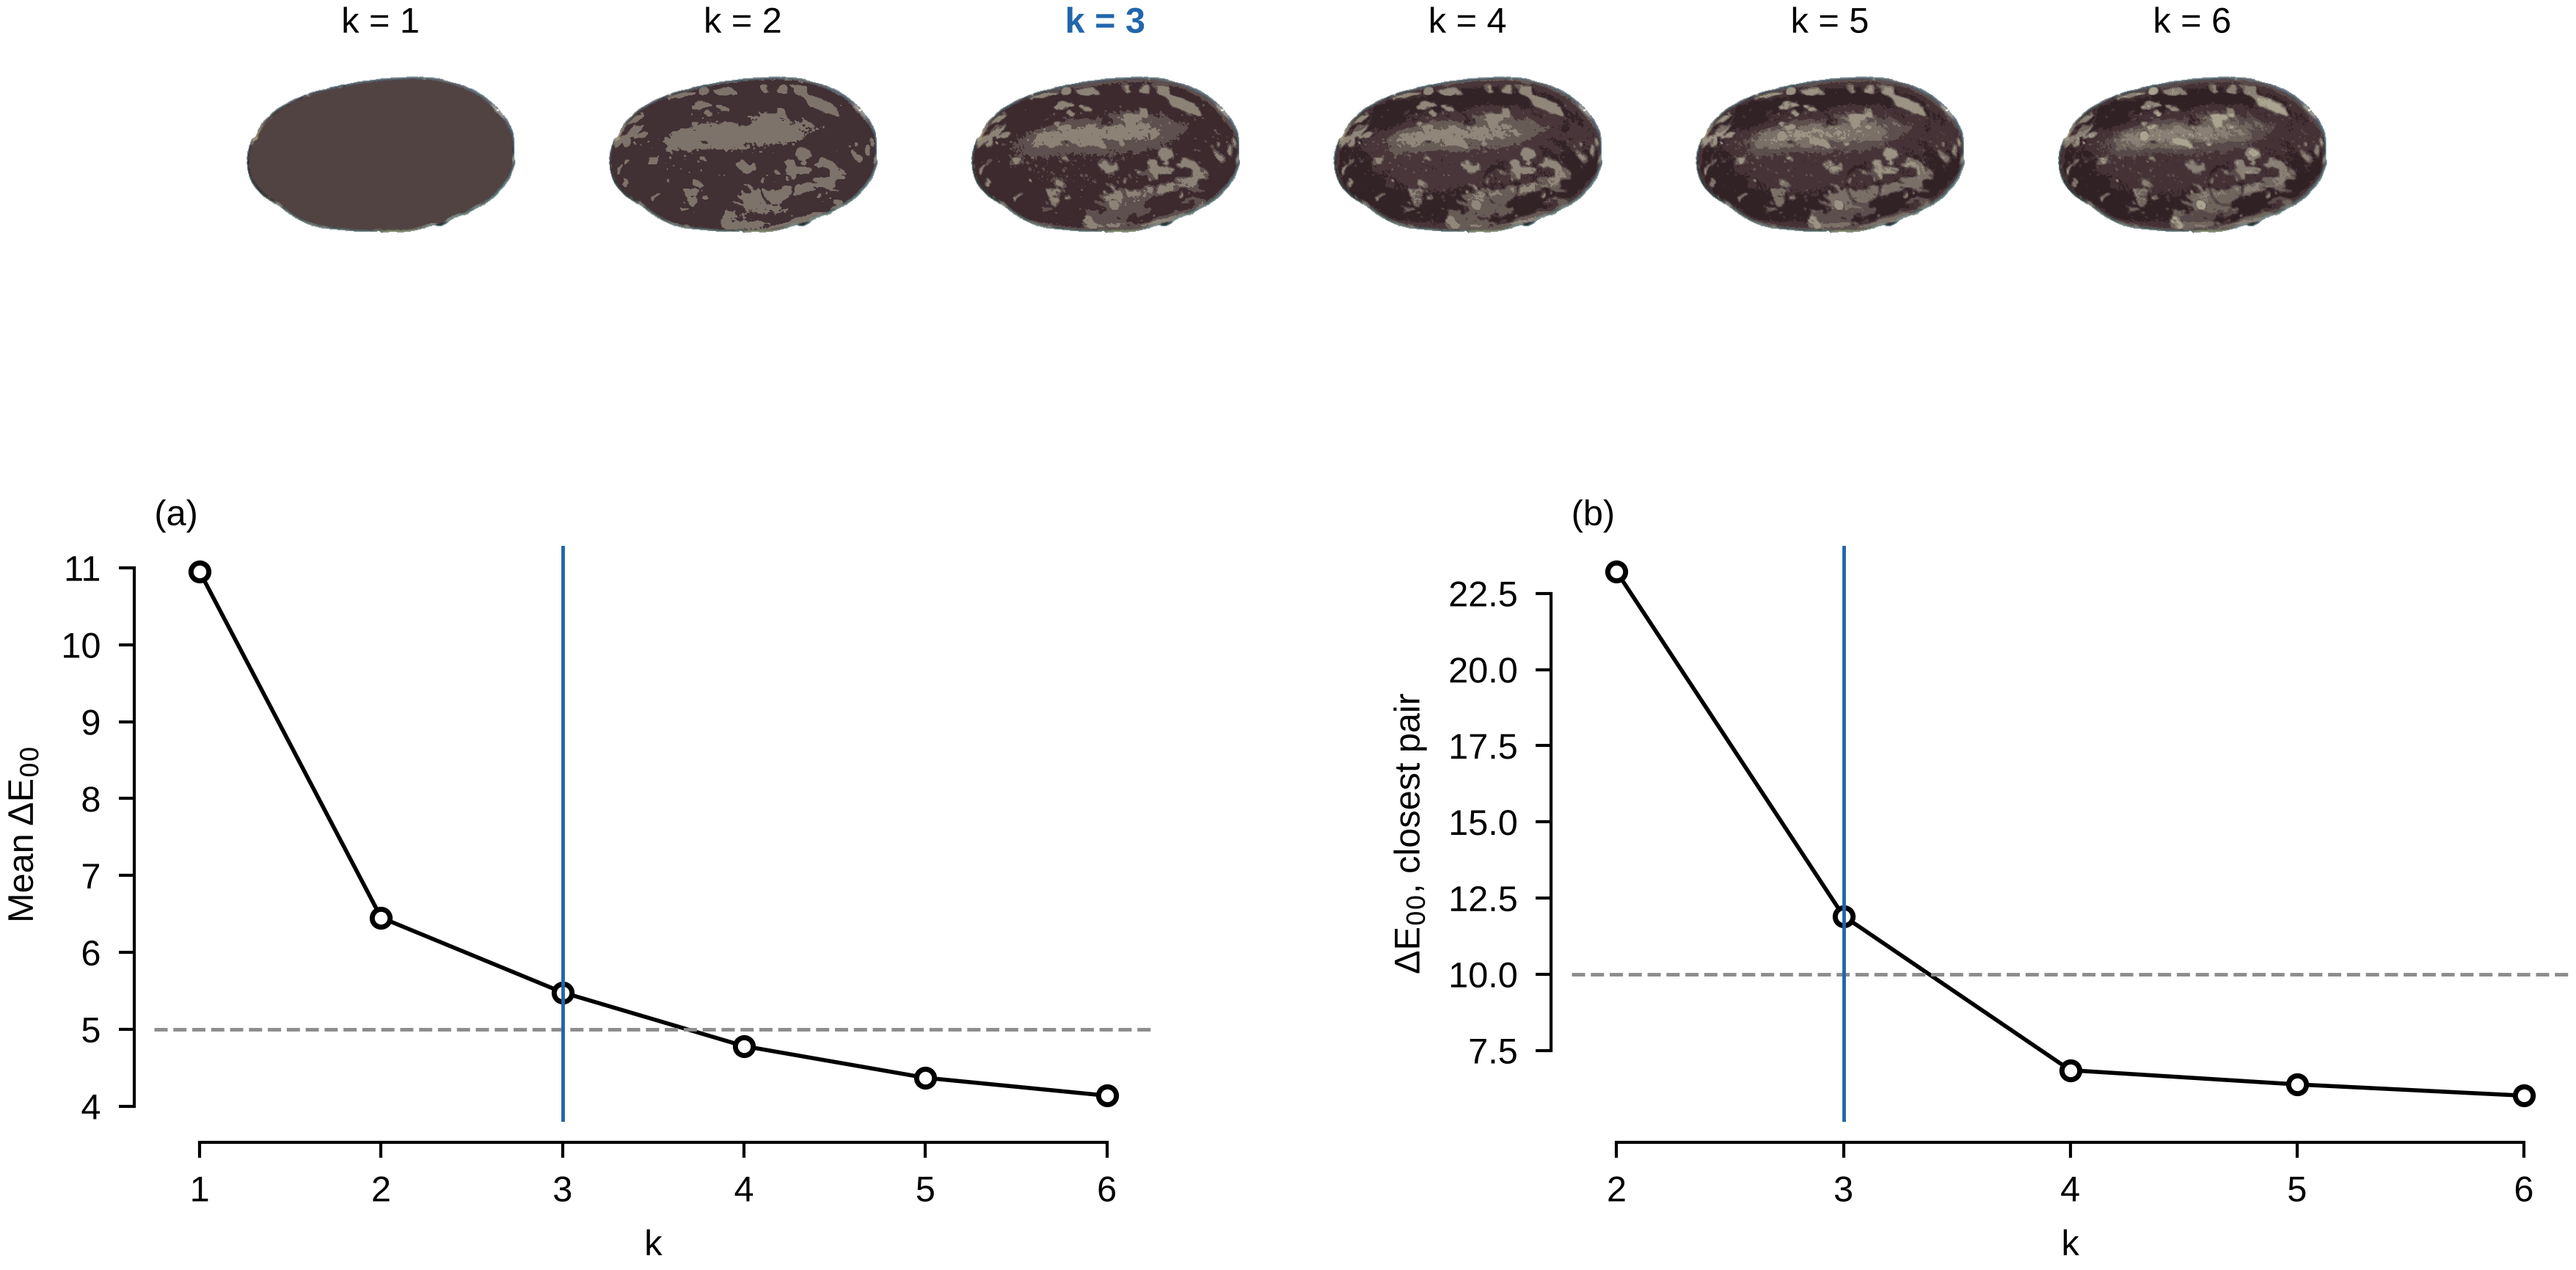
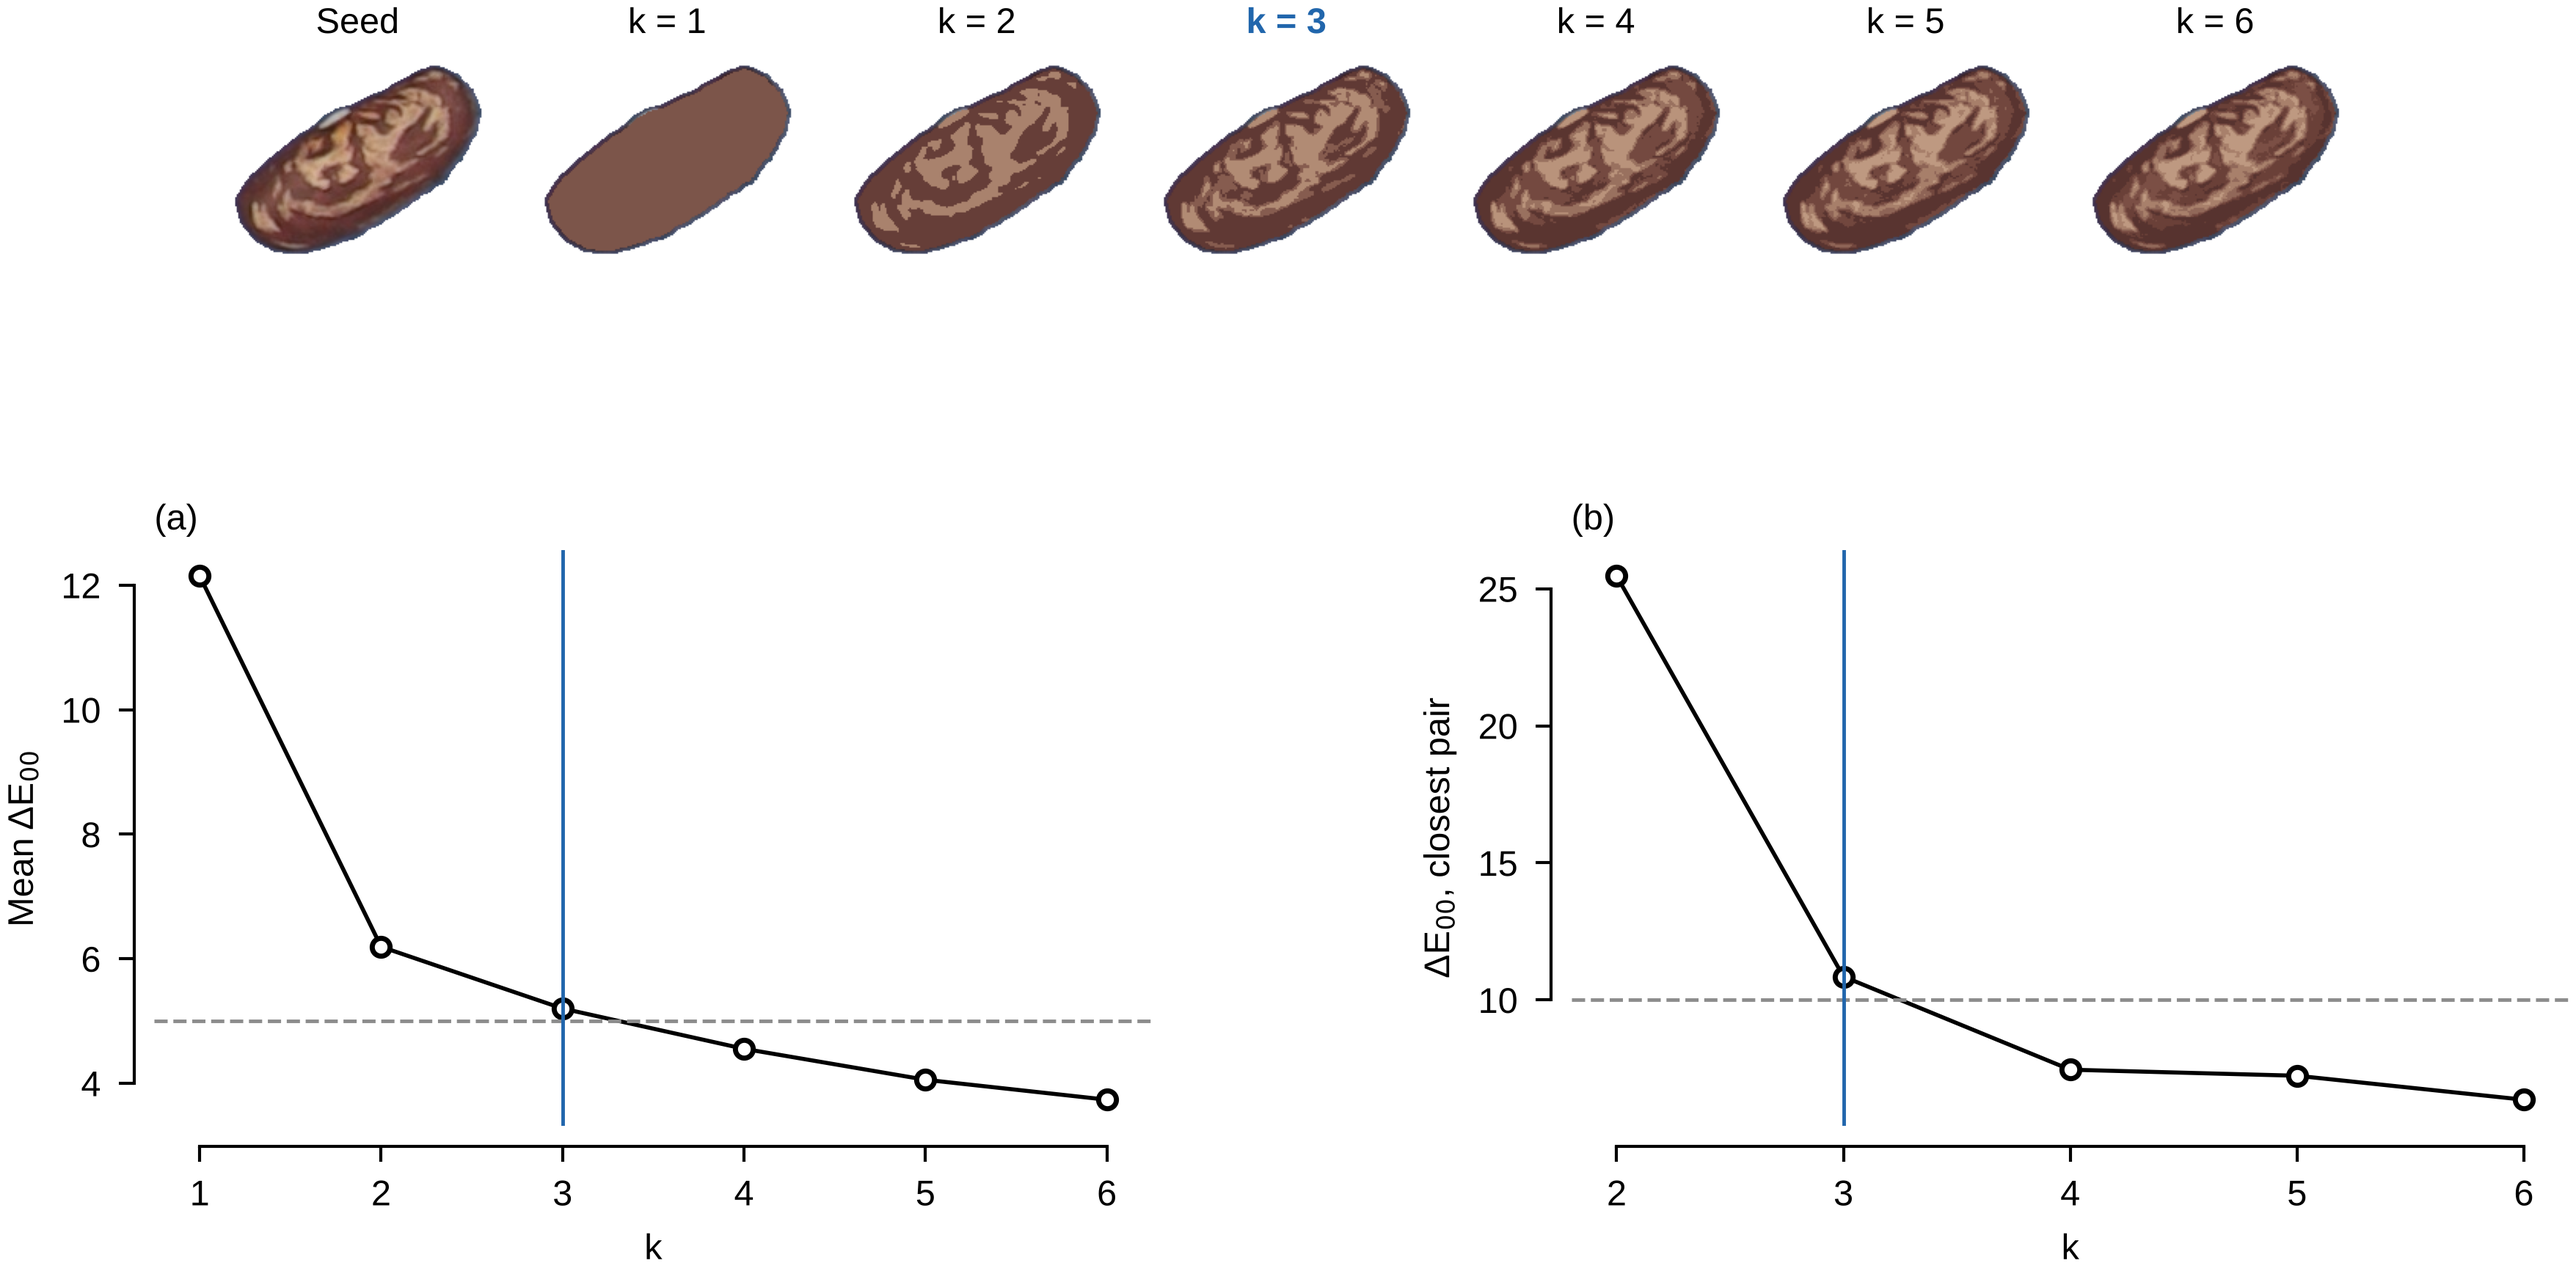
Color automático sin la regla del 1 %; Figura 10 con semilla roja moteada; arquitectura con modelos ONNX

diff --git a/docs/make_figures.py b/docs/make_figures.py
@@ -47,6 +47,10 @@ TRAY_SEG = {"step": "otsu", "params": {"color_space": "LAB", "channel": 2}}
 DISH_PHOTO = DATA / "Cgiar_Bean_Pest_Seeds" / "552.jpg"
 DISH_SEG = {"step": "threshold", "params": {"color_space": "LAB", "channel": 0, "min_val": 0, "max_val": 160}}
 PEST = DATA / "Cgiar_Bean_Pest_Seeds"
+COLOR_K_PHOTO = DATA / "Cgiar_Bean_Sequia_Seeds" / "In_row=23377.jpg"   # red mottled seeds
+COLOR_K_TRAY = (0.03, 0.97, 0.12, 0.86)                                  # tray: y0, y1, x0, x1
+COLOR_K_CARD = [[0.62, 0.0], [0.84, 0.25]]                               # color card, excluded
+COLOR_K_SEED = 42                                                        # object shown
 SEED_PHOTOS = ("051", "052", "184", "185", "552", "553")       # semillas en la caja de Petri
 INSECT_PHOTOS = ("053", "186", "554")                          # insectos y residuos sobre papel
 CLASS_NAMES_EN = {"Agujero": "Hole", "AgujeroBorde": "Edge hole", "AgujeroCerrado": "Closed hole",
@@ -525,8 +529,8 @@ def fig_color():
 
 
 def k_curve(pixels, k_max=6):
-    """For k = 1 … k_max: mean ΔE00 from each pixel to its group color, smallest ΔE00 between two
-    group colors and smallest share of a group (the quantities used by the automatic k)."""
+    """For k = 1 … k_max: mean ΔE00 from each pixel to its group color and smallest ΔE00 between two
+    group colors (the quantities used by the automatic k)."""
     from skimage.color import deltaE_ciede2000
     from fenotit.core.measurements import color as color_step
     sample = pixels
@@ -542,24 +546,38 @@ def k_curve(pixels, k_max=6):
         error = float(np.mean(deltaE_ciede2000(lab, centers[labels])))
         separation = min((deltaE_ciede2000(centers[i], centers[j]) for i in range(k) for j in range(i + 1, k)),
                          default=np.nan)
-        share = float((np.bincount(labels, minlength=k) / len(labels)).min())
-        rows.append((k, error, float(separation), share))
+        rows.append((k, error, float(separation)))
     return rows, color_step.auto_k(pixels)
 
 
 def fig_color_k():
-    if not have(DISH_PHOTO):
+    """Automatic number of colors for one red mottled seed of the second capture box."""
+    if not have(COLOR_K_PHOTO):
         return
+    from fenotit.core.corrections import pipeline as corrections_pipeline
     from fenotit.core.measurements import color as color_step
-    img, shapes = dish()
-    ctx = objects_in(img, DISH_SEG, shapes, [{"step": "morphometry"}])
-    _, mask, patch, _ = seed_crop(ctx, img)
+    corrections = corrections_pipeline.Corrections()
+    corrections.color.enabled = True
+    img, _ = corrections_pipeline.apply(load_image(str(COLOR_K_PHOTO)), corrections)
+    height, width = img.shape[:2]
+    y0, y1, x0, x1 = COLOR_K_TRAY
+    img = img[int(height * y0):int(height * y1), int(width * x0):int(width * x1)].copy()
+    ctx = objects_in(img, TRAY_SEG, [{"kind": "exclude", "type": "rect", "points": COLOR_K_CARD}],
+                     [{"step": "morphometry"}])
+    bounds = crop_box(ctx.labels, [COLOR_K_SEED], pad=8)
+    mask, patch = (ctx.labels[bounds] == COLOR_K_SEED).astype(np.uint8), img[bounds]
     core, pixels = seed_pixels(mask, patch)
     rows, chosen = k_curve(pixels)
     fig = plt.figure(figsize=(style.DOUBLE, 95 * MM))
-    top = fig.add_gridspec(1, 6, top=0.95, bottom=0.66, wspace=0.15)
+    top = fig.add_gridspec(1, 7, top=0.95, bottom=0.66, wspace=0.15)
     bottom = fig.add_gridspec(1, 2, top=0.52, bottom=0.1, left=0.1, right=0.98, wspace=0.42)
-    for index, k in enumerate(range(1, 7)):
+    ax = fig.add_subplot(top[0, 0])
+    style.photo_axes(ax)
+    photo = rgb(patch).copy()
+    photo[mask == 0] = 255
+    ax.imshow(photo)
+    ax.set_title("Seed", loc="center")
+    for index, k in enumerate(range(1, 7), 1):
         ax = fig.add_subplot(top[0, index])
         style.photo_axes(ax)
         clusters, labels = color_step._kmeans(pixels, k)
@@ -590,14 +608,15 @@ def fig_color_k():
     save(fig, "color_k.png")
     counts = {}
     median = np.median([row["area_px2"] for row in ctx.tables["objects"] if row.get("area_px2")])
-    seeds = [row["object_id"] for row in ctx.tables["objects"] if 0.4 * median < row.get("area_px2", 0) < 2.5 * median]
+    seeds = [row["object_id"] for row in ctx.tables["objects"]
+             if 0.6 * median < row.get("area_px2", 0) < 1.6 * median and row.get("solidity", 0) >= 0.97]
     for object_id in seeds:
         bounds = crop_box(ctx.labels, [object_id], pad=5)
         object_mask = (ctx.labels[bounds] == object_id).astype(np.uint8)
         _, object_pixels = seed_pixels(object_mask, img[bounds])
         k = color_step.auto_k(object_pixels)
         counts[k] = counts.get(k, 0) + 1
-    print("color k:", [(k, round(e, 2), None if np.isnan(s) else round(s, 1), round(100 * m, 1)) for k, e, s, m in rows],
+    print("color k:", [(k, round(e, 2), None if np.isnan(s) else round(s, 1)) for k, e, s in rows],
           "chosen", chosen, "| chosen k per seed in the photo:", dict(sorted(counts.items())))
 
 

diff --git a/docs/paper/architecture_figure.py b/docs/paper/architecture_figure.py
@@ -161,7 +161,7 @@ def draw():
     group(CORE, "Analysis core (no interface code)")
     arrow([(950, 232), (950, 298)], width=3)
     text(968, 272, "runs analyses", size=LABEL_SIZE, anchor="start")
-    text(360, 372, "Analysis chain, run on each photograph", size=NOTE_SIZE, anchor="start", italic=True)
+    text(360, 372, "Analysis steps, run in order on each photograph", size=NOTE_SIZE, anchor="start", italic=True)
     chain = [("Corrections", ["lens, perspective,", "color, scale"]),
              ("Segmentation", ["threshold,", "by example,", "MobileSAM"]),
              ("Detection", ["boxes from", "trained models"]),
@@ -189,9 +189,13 @@ def draw():
     cylinder(LEFT_X, 705, 200, 92, ["Project and", "preset files"], ["readable text files"])
     arrow([(265, 690), (358, 640)], both=True, label="opens, saves", at=(215, 618))
     arrow([(265, 720), (358, 770)], both=True)
+    arrow([(450, 588), (450, 514)])
+    text(466, 560, "settings of each step", size=LABEL_SIZE, anchor="start")
+    arrow([(500, 718), (500, 692)])
+    text(516, 712, "loaded into", size=LABEL_SIZE, anchor="start")
     stacked(700, 600, 300, 110, "Batch processing", ["several photos at once"])
     arrow([(850, 584), (850, 514)])
-    text(866, 560, "runs the chain on each photo", size=LABEL_SIZE, anchor="start")
+    text(866, 560, "runs these steps on each photo", size=LABEL_SIZE, anchor="start")
     module(1100, 600, 300, 110, "Statistics and charts", ["by photo or group"])
     arrow([(1258, 514), (1258, 598)])
     text(1274, 560, "results", size=LABEL_SIZE, anchor="start")
@@ -211,7 +215,11 @@ def draw():
     module(1600, 1095, 290, 110, "Converter", ["separate Python", "environment, to ONNX"])
     arrow([(RIGHT_X, 1093), (RIGHT_X, 975)], label="adds", at=(RIGHT_X + 40, 1040), anchor="start")
     document(1440, 1150, tag=".pt")
-    lines(1440, 1232, ["PyTorch model"], size=NOTE_SIZE)
+    text(1385, 1160, "PyTorch model", size=NOTE_SIZE, anchor="end")
+    document(1440, 1030, tag=".onnx")
+    text(1385, 1040, "ONNX model", size=NOTE_SIZE, anchor="end")
+    arrow([(1482, 1015), (1655, 960)])
+    text(1590, 1018, "adds", size=LABEL_SIZE)
     arrow([(1482, 1150), (1598, 1150)])
 
 

diff --git a/fenotit/core/measurements/color.py b/fenotit/core/measurements/color.py
@@ -8,7 +8,7 @@ from fenotit.core.pipeline.base import step
 from fenotit.core.pipeline.views import regions
 
 
-AUTO_ERR, AUTO_SEP, AUTO_SHARE = 5.0, 10.0, 0.01
+AUTO_ERR, AUTO_SEP = 5.0, 10.0
 
 
 def _lab(rgb):
@@ -65,7 +65,7 @@ def _core(mask: np.ndarray, trim: int) -> np.ndarray:
 def auto_k(pixels_rgb: np.ndarray, kmax: int = 10, sample: int = 1500) -> int:
     """Cuántos colores explican el objeto: el menor k cuyo error medio (ΔE00 de cada píxel
     a su color) es ≤ 5, sin pasar el k en que dos colores quedan a menos de 10 ΔE00 (ya no
-    se distinguen a simple vista) o uno cubre menos del 1 %. Muestra fija (semilla 134)."""
+    se distinguen a simple vista). Muestra fija (semilla 134)."""
     from skimage.color import deltaE_ciede2000
     pixels = np.asarray(pixels_rgb)
     if len(pixels) > sample:
@@ -80,9 +80,8 @@ def auto_k(pixels_rgb: np.ndarray, kmax: int = 10, sample: int = 1500) -> int:
         _, lab_k, cen = cv2.kmeans(lab, n_clusters, None, crit, 3, cv2.KMEANS_PP_CENTERS)
         lab_k = lab_k.ravel()
         if n_clusters > 1:
-            share = np.bincount(lab_k, minlength=n_clusters) / len(lab_k)
             sep = min(deltaE_ciede2000(cen[i], cen[j]) for i in range(n_clusters) for j in range(i + 1, n_clusters))
-            if sep < AUTO_SEP or share.min() < AUTO_SHARE:
+            if sep < AUTO_SEP:
                 break
         best = n_clusters
         if float(np.mean(deltaE_ciede2000(lab, cen[lab_k]))) <= AUTO_ERR:

diff --git a/docs/methods/06_color.md b/docs/methods/06_color.md
@@ -36,11 +36,10 @@ The colors of the whole photo are exported in `image_colors`.
 ## 6.4 Number of colors per object
 
 With "Automatic", pixels are grouped in CIELAB for $k = 1, 2, 3, \dots$ up to the maximum, and
-three quantities are computed with CIEDE2000 (ΔE₀₀; Sharma et al., 2005) on 1500 pixels: the mean
-ΔE₀₀ between each pixel and its group color (fit), the ΔE₀₀ between the two closest group colors
-(separation) and the share of the smallest group. The number chosen is the smallest $k$ with a fit
-of 5 ΔE₀₀ or less, stopping earlier if the next $k$ gives two colors closer than 10 ΔE₀₀ or a group
-below 1 %.
+two quantities are computed with CIEDE2000 (ΔE₀₀; Sharma et al., 2005) on 1500 pixels: the mean
+ΔE₀₀ between each pixel and its group color (fit) and the ΔE₀₀ between the two closest group colors
+(separation). The number chosen is the smallest $k$ with a fit of 5 ΔE₀₀ or less, stopping earlier
+if the next $k$ gives two colors closer than 10 ΔE₀₀.
 
 ![Number of colors](../img/color_k.png)
 
